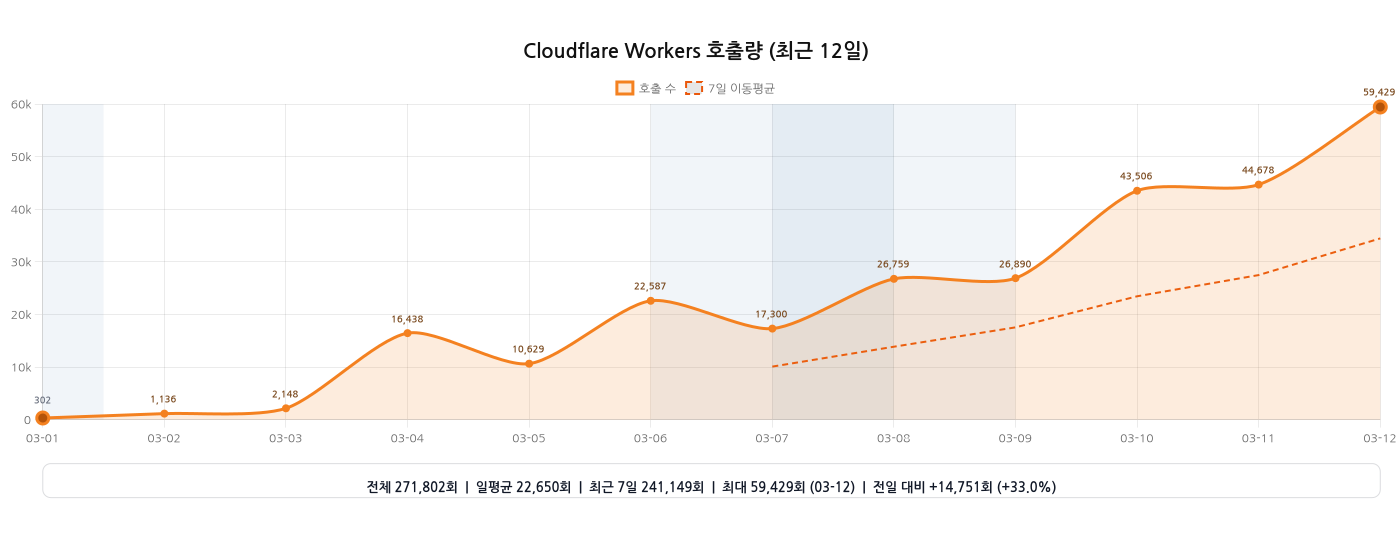
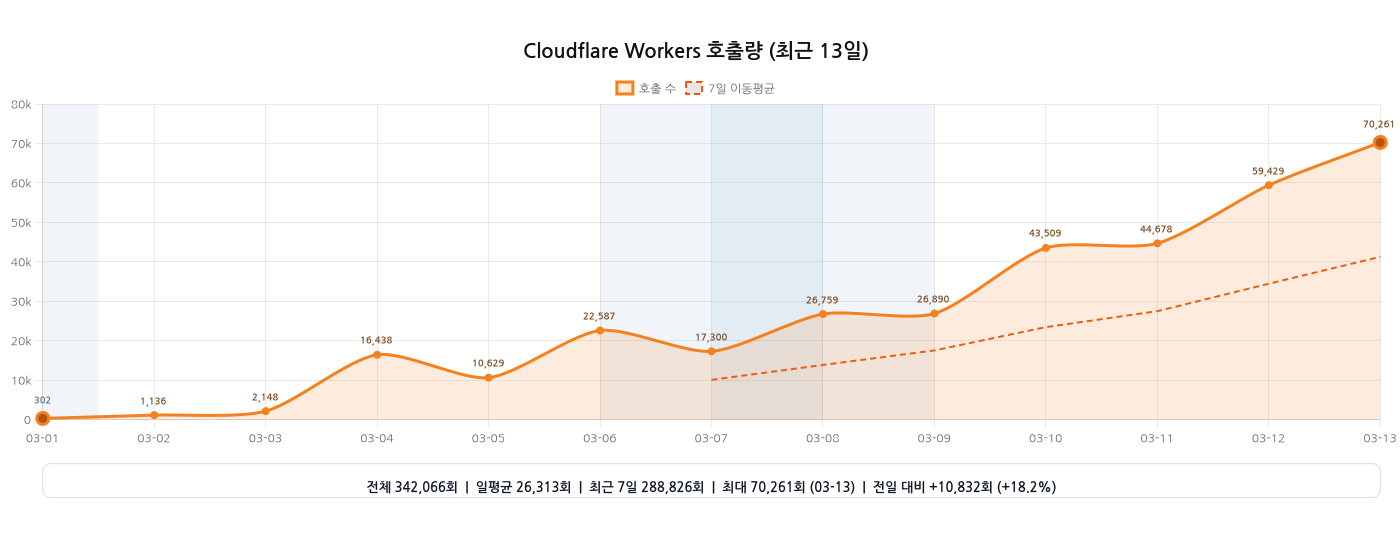
chore: 워커 호출량 그래프 자동 갱신

diff --git a/README.md b/README.md
@@ -18,11 +18,11 @@
 [![Coverage](https://github.com/hmmhmmhm/daiso-mcp/actions/workflows/coverage.yml/badge.svg?branch=main)](https://github.com/hmmhmmhm/daiso-mcp/actions/workflows/coverage.yml)
 
 <!-- WORKERS_INVOCATIONS_CHART:START -->
-<h3>Cloudflare Workers 호출량 (2026-03-01 ~ 2026-03-12, 12일)</h3>
+<h3>Cloudflare Workers 호출량 (2026-03-01 ~ 2026-03-13, 13일)</h3>
 
-<img src="./assets/analytics/workers-invocations.png?v=2026-03-12T15:41:16.510Z" alt="Cloudflare Workers 호출량 그래프 (2026-03-01 ~ 2026-03-12)" width="100%">
+<img src="./assets/analytics/workers-invocations.png?v=2026-03-13T15:34:23.783Z" alt="Cloudflare Workers 호출량 그래프 (2026-03-01 ~ 2026-03-13)" width="100%">
 
-<sub>기준 워커: <code>daiso-mcp</code> · 마지막 갱신: 2026-03-13 00:41 KST</sub>
+<sub>기준 워커: <code>daiso-mcp</code> · 마지막 갱신: 2026-03-14 00:34 KST</sub>
 
 <!-- WORKERS_INVOCATIONS_CHART:END -->
 
